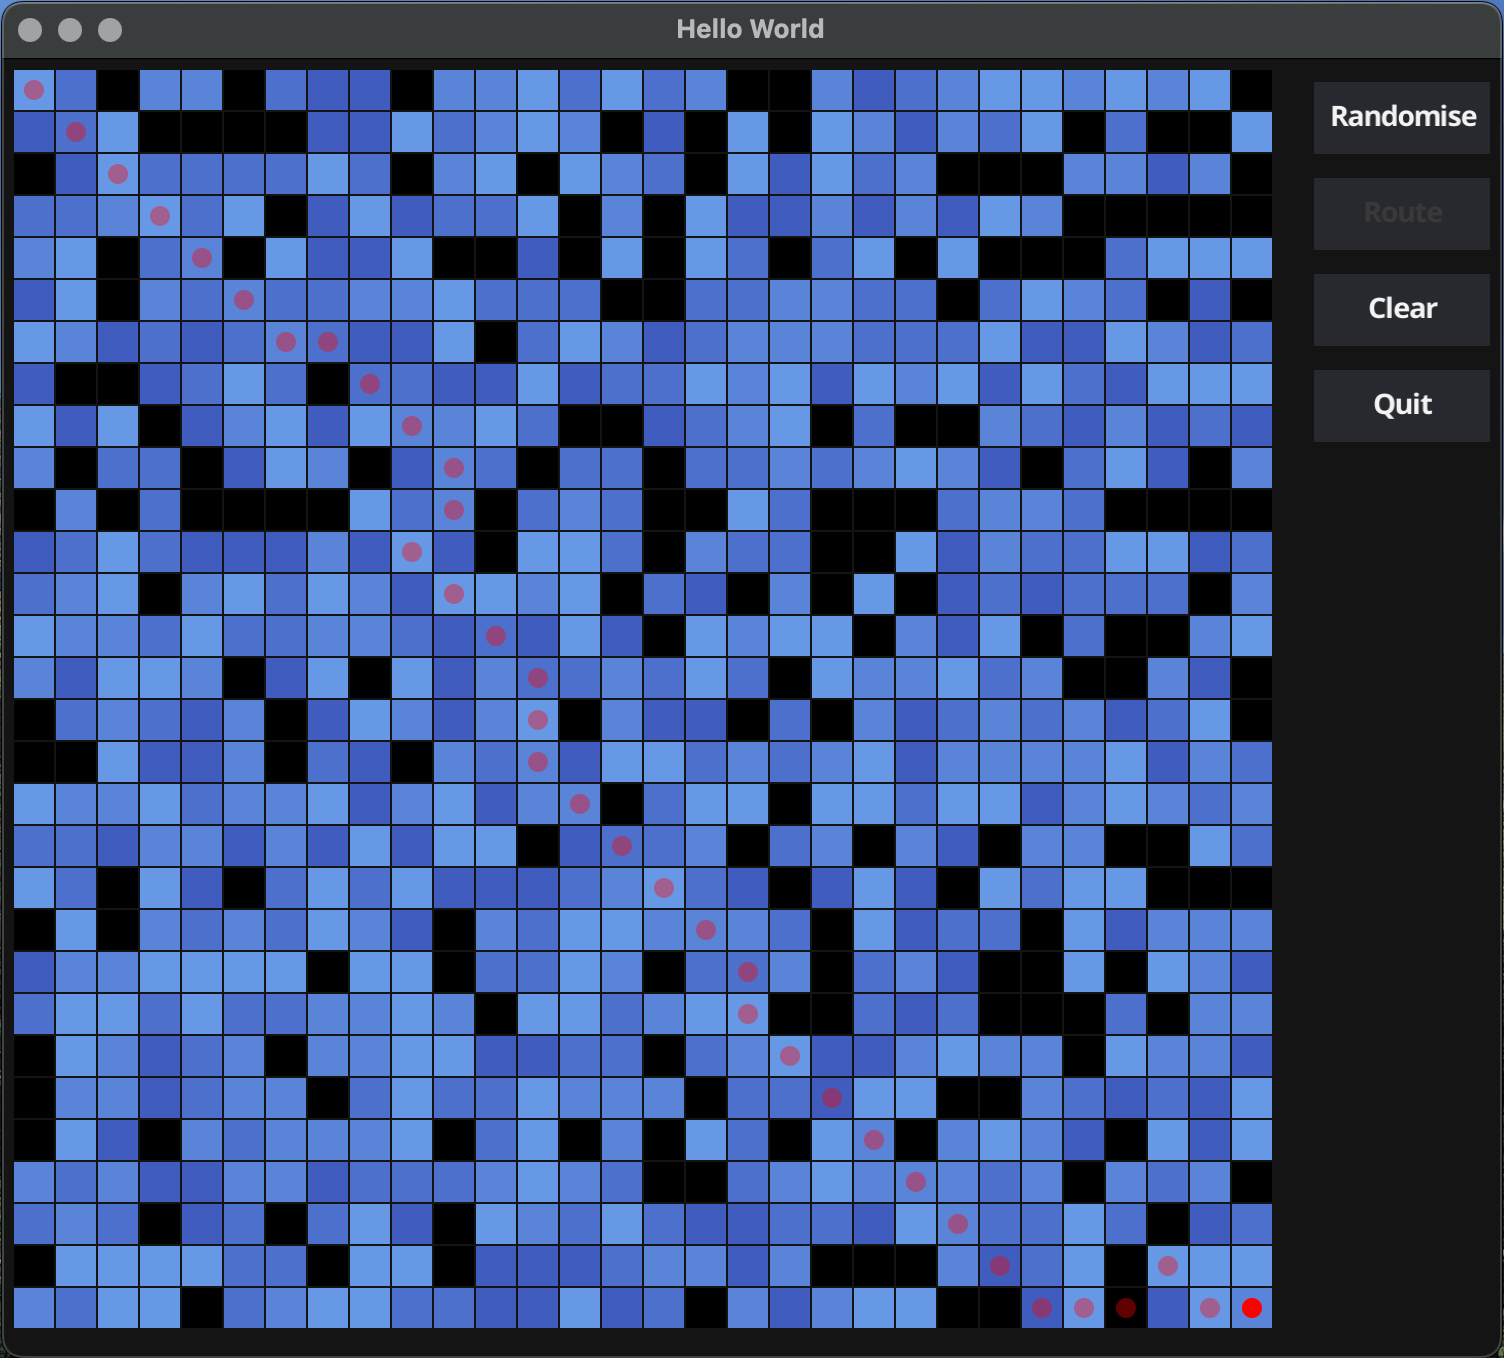
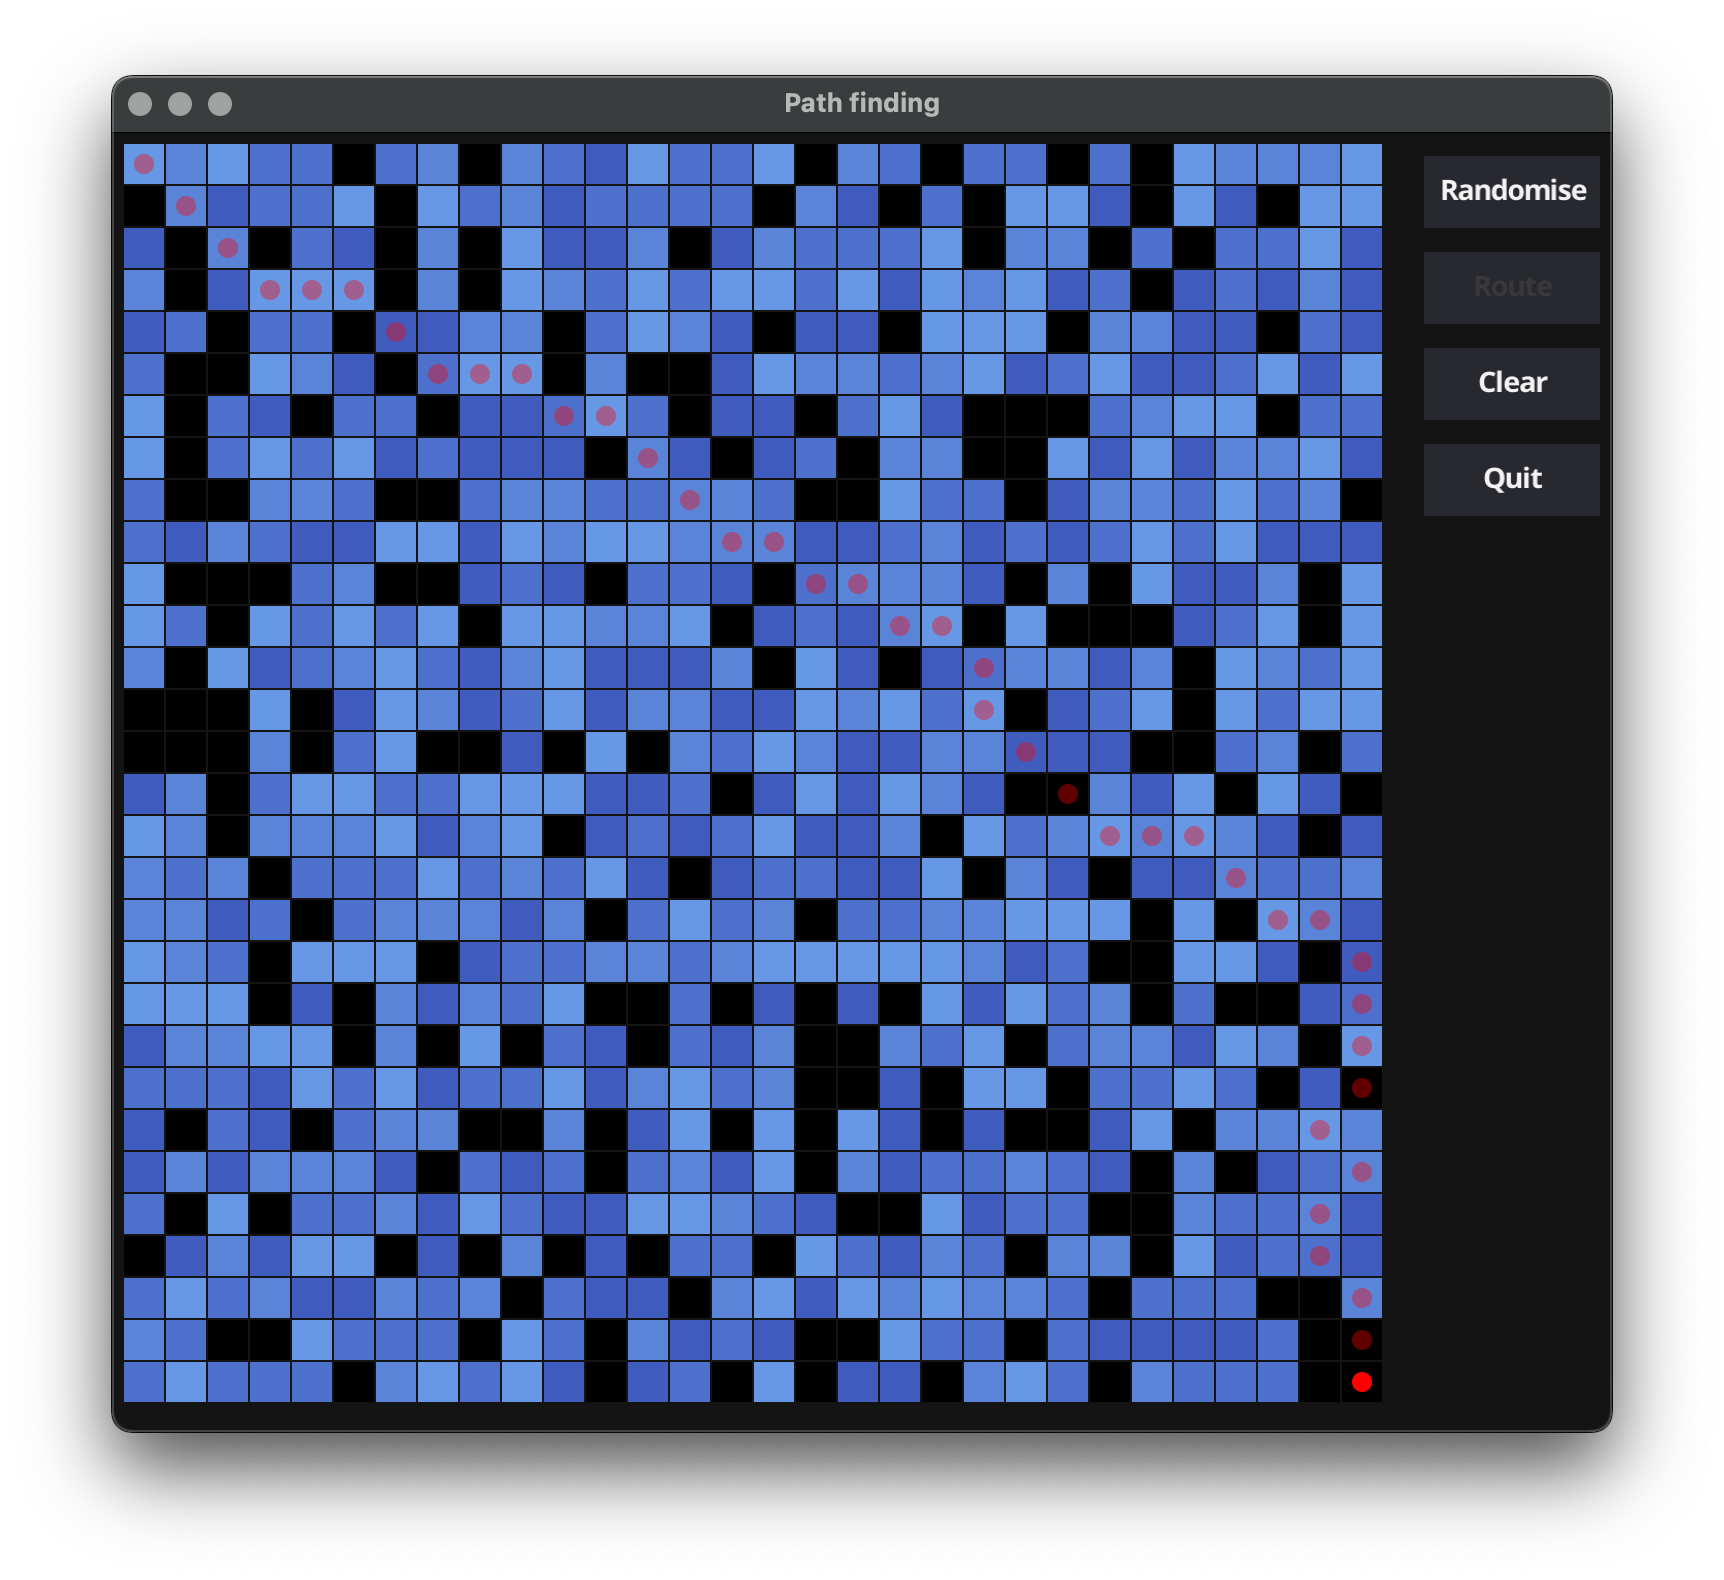
Image

diff --git a/cmd/astar/main.go b/cmd/astar/main.go
@@ -95,7 +95,7 @@ func main() {
 	//
 	// Launch.
 	//
-	w := application.NewWindow("Hello World")
+	w := application.NewWindow("Path finding")
 	content := container.NewBorder(nil, nil, nil, right, centre)
 	w.SetContent(content)
 	w.Resize(fyne.NewSize(750, 650))
